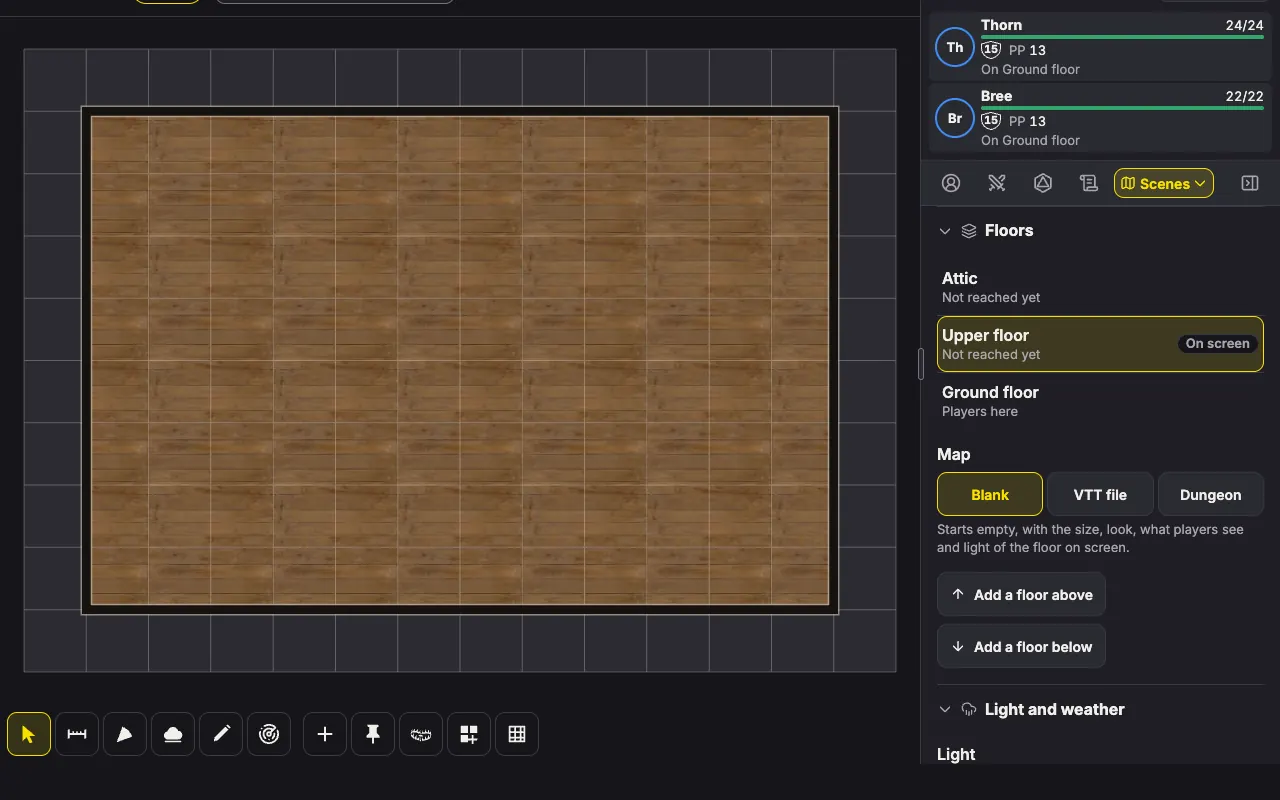
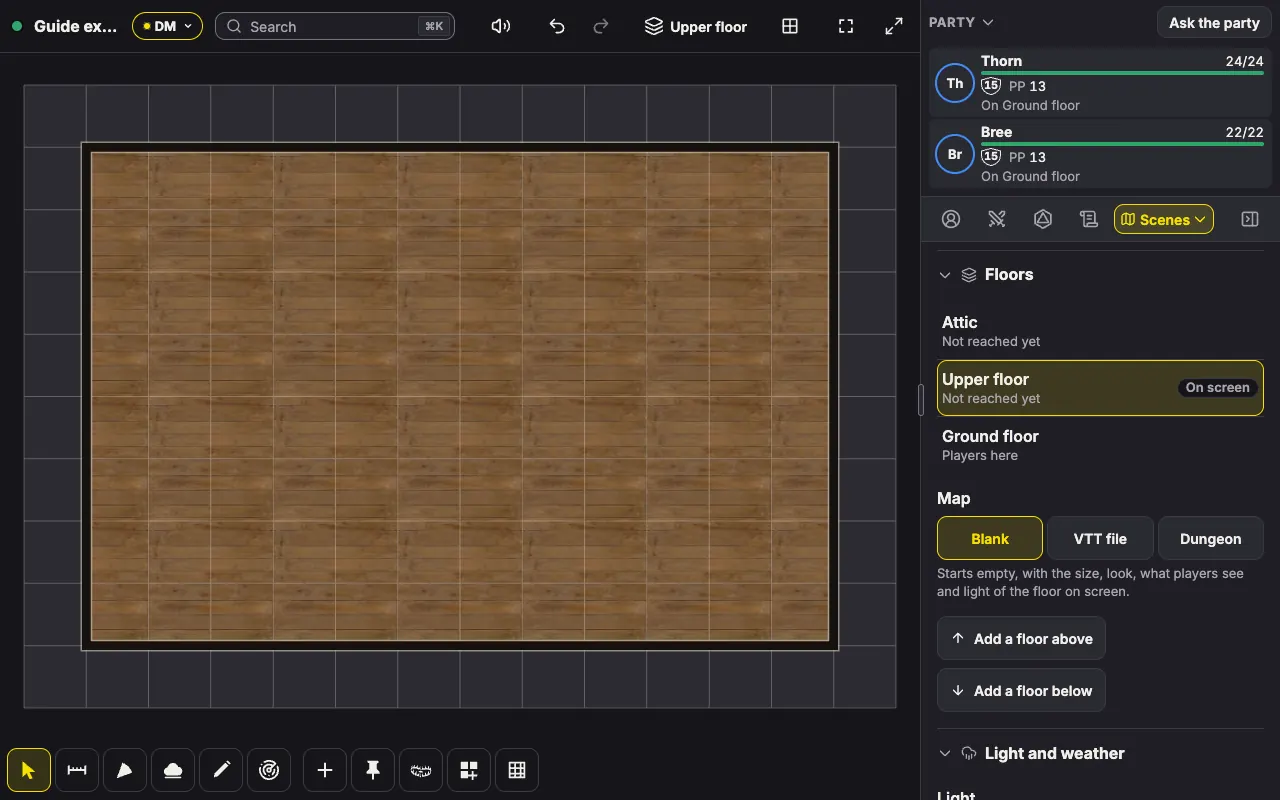
docs(guide): the floors desk script scrolls only the panel, and the settings picture keeps the top bar

diff --git a/scripts/guide-floors-desk.ts b/scripts/guide-floors-desk.ts
@@ -79,6 +79,19 @@ async function onFloor(page: Page, name: string): Promise<void> {
   });
 }
 
+/** Scrolls only the side panel so `target` stands at its top, and puts the page itself back at the top. */
+async function scrollPanelTo(page: Page, target: Locator): Promise<void> {
+  await target.evaluate((el) => {
+    type Box = { scrollTop: number; scrollHeight: number; clientHeight: number; parentElement: Box | null; getBoundingClientRect(): { top: number } };
+    let box = (el as unknown as { closest(s: string): Box | null }).closest('[role="tabpanel"]');
+    while (box && !(box.scrollHeight > box.clientHeight + 5)) box = box.parentElement;
+    if (box) box.scrollTop += (el as unknown as Box).getBoundingClientRect().top - box.getBoundingClientRect().top - 8;
+    const g = globalThis as unknown as { scrollTo(x: number, y: number): void };
+    g.scrollTo(0, 0);
+  });
+  await page.waitForTimeout(300);
+}
+
 const work = mkdtempSync(path.join(tmpdir(), "raccoon-guide-floors-desk-"));
 const server = await startServer({ port: PORT, assetDir: path.join(work, "assets"), databaseUrl: DATABASE_URL });
 const browser = await chromium.launch({ channel: "chrome", headless: true });
@@ -156,7 +169,7 @@ try {
   // Shot 2: the Floors group in the scene's settings.
   const scenes = await panel(dm, "Scenes");
   const group = await openSceneGroup(scenes, "Floors");
-  await group.evaluate((el) => (el as unknown as { scrollIntoView(o: unknown): void }).scrollIntoView({ block: "start" }));
+  await scrollPanelTo(dm, group);
   await quiet(dm);
   await picture(dm, "floors-settings");
 
